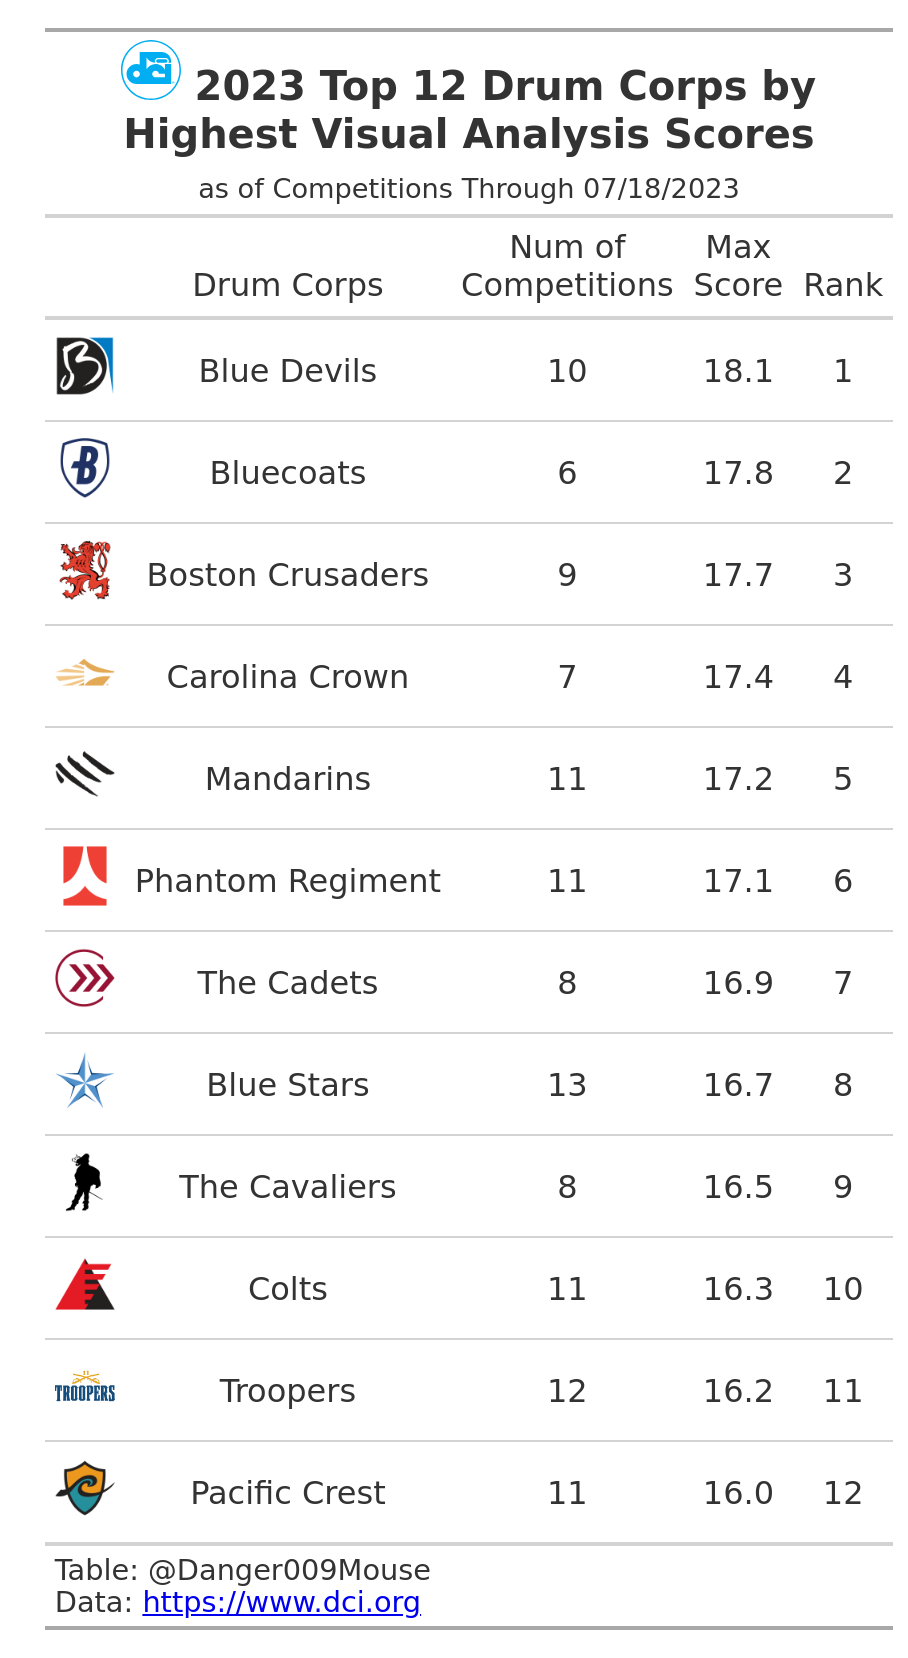
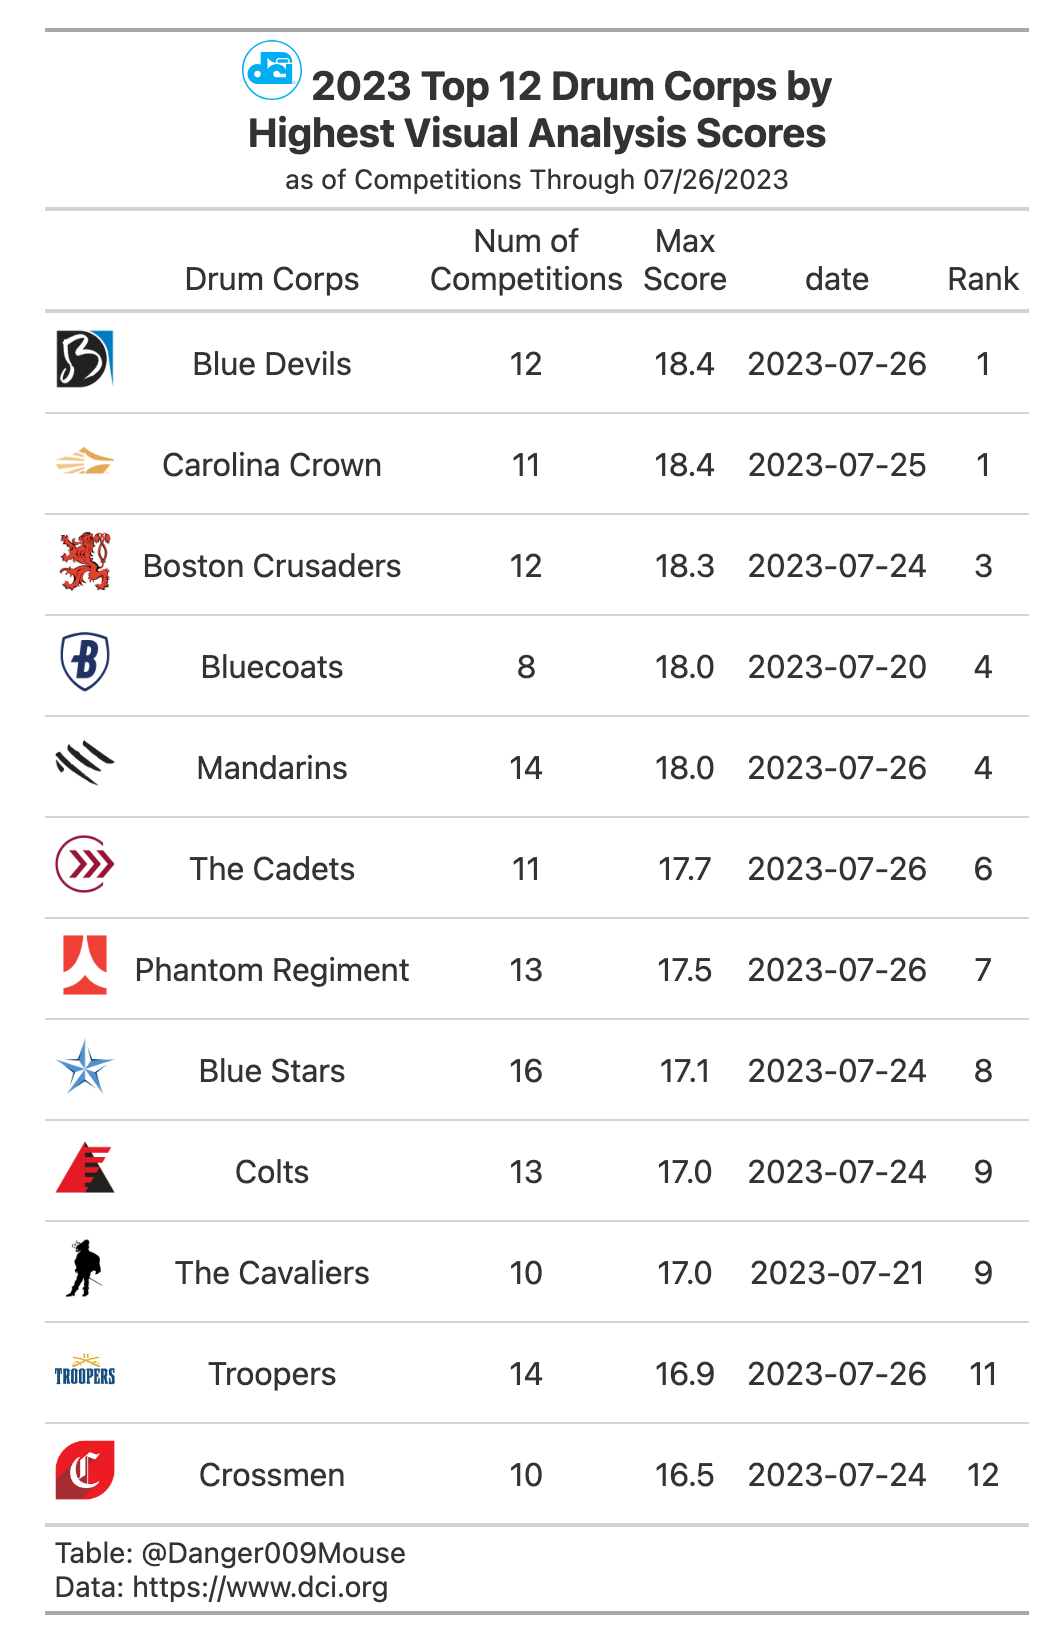
Update scores from 7/28

Changed region(s): [[0.0308, 0.0311, 0.9868, 0.9939]]

diff --git a/main.py b/main.py
@@ -9,33 +9,7 @@ today = dt.date.today()
 yesterday = (today - dt.timedelta(days=1)).strftime("%Y-%m-%d")
 
 performance_dates = [
- '2023-06-28',
- '2023-06-30',
- '2023-07-01',
- '2023-07-02',
- '2023-07-03',
- '2023-07-05',
- '2023-07-07',
- '2023-07-08',
- '2023-07-09',
- '2023-07-10',
- '2023-07-11',
- '2023-07-12',
- '2023-07-13',
- '2023-07-14',
- '2023-07-15',
- '2023-07-16',
- '2023-07-17',
- '2023-07-18',
- '2023-07-19',
- '2023-07-20',
- '2023-07-21',
- '2023-07-22',
- '2023-07-23',
- '2023-07-24',
- '2023-07-25',
- '2023-07-25',
- '2023-07-26',
+ '2023-07-27',
  '2023-07-28',
  '2023-07-29',
  '2023-07-30',

diff --git a/small-recap-scrape.py b/small-recap-scrape.py
@@ -92,11 +92,7 @@ urls = [
 ]
 
 performance_dates = [
- '2023-07-23',
- '2023-07-24',
- '2023-07-25',
- '2023-07-25',
- '2023-07-26',
+ '2023-07-27',
  '2023-07-28',
  '2023-07-29',
  '2023-07-30',
